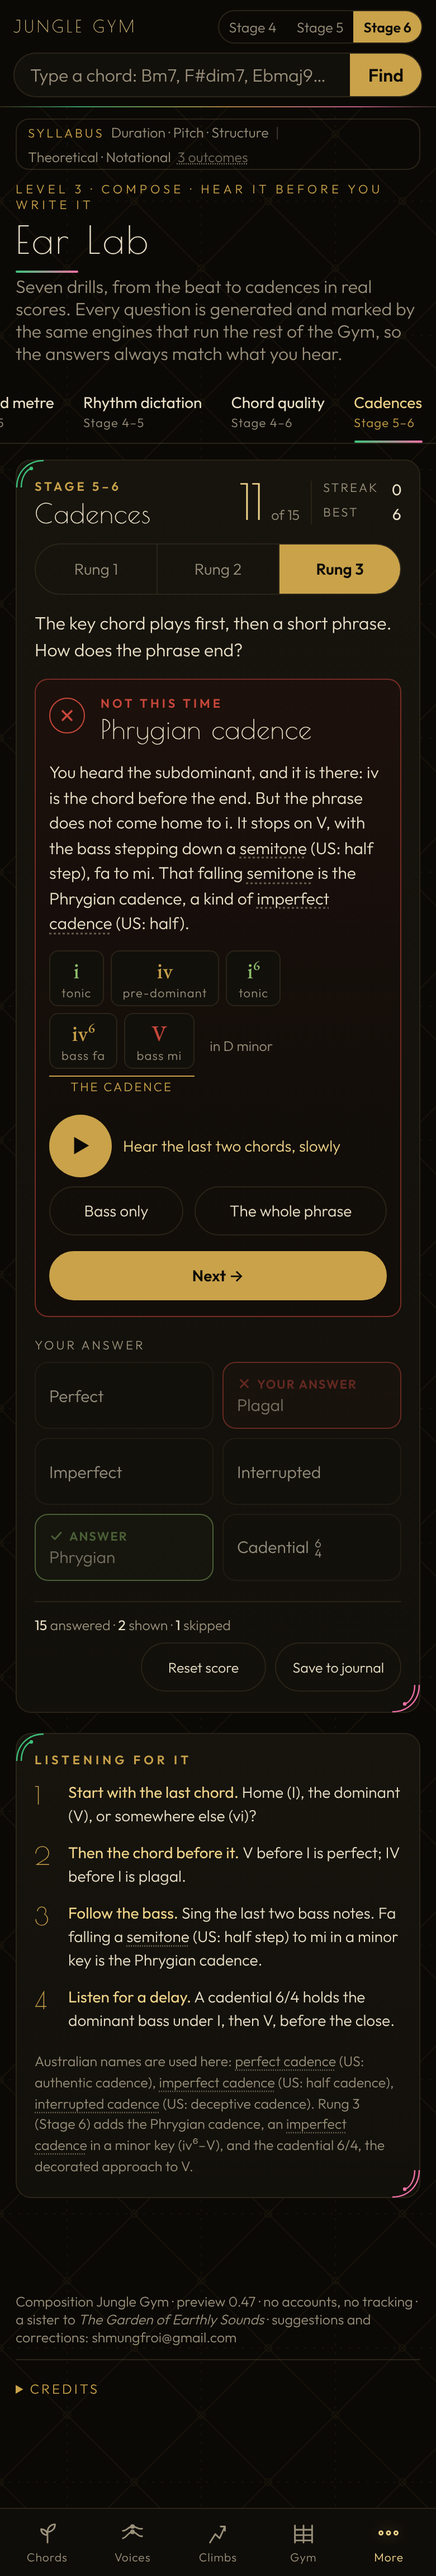
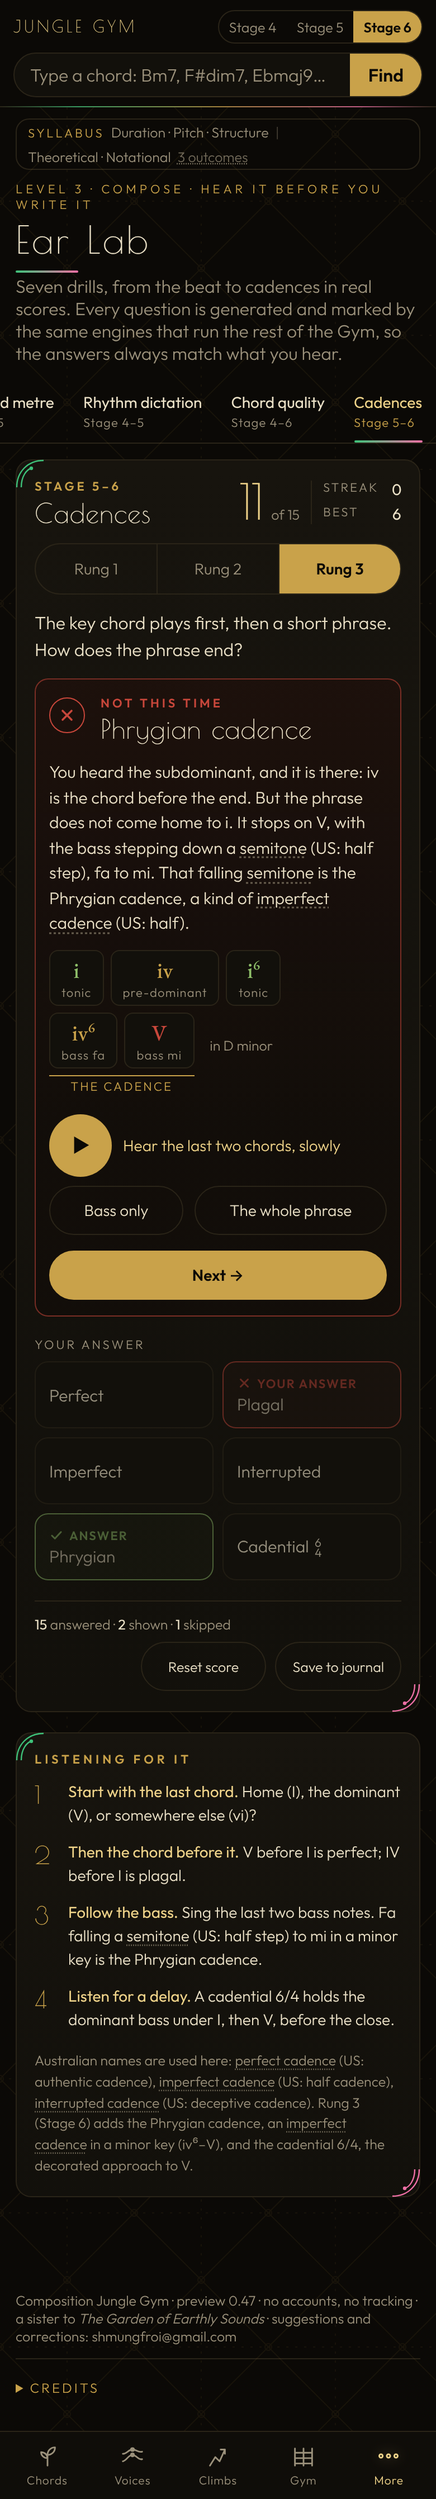
Ear Lab UI: dock only when the stage is above the view, 44px letter-names target, rhythm stave checks, screenshots, EL_ui_report
Claude-Session: https://claude.ai/code/session_014yUutbWzvEqdjPhWn8Tgwq

diff --git a/tests/layout_detect.js b/tests/layout_detect.js
@@ -3,7 +3,7 @@
  const vis=e=>{const s=getComputedStyle(e);return s.visibility!=='hidden'&&s.display!=='none'&&+s.opacity>0.05};
  const items=[];
  const walker=document.createTreeWalker(document.querySelector('main'),NodeFilter.SHOW_TEXT);
- let n;while(n=walker.nextNode()){const t=n.textContent.trim();if(!t)continue;const el=n.parentElement;if(!el||el.closest('script,style'))continue;
+ let n;while(n=walker.nextNode()){const t=n.textContent.trim();if(!t)continue;const el=n.parentElement;if(!el||el.closest('script,style,.el-sr,.sr-only'))continue;
   if(el.closest('svg')&&!['text','tspan'].includes(el.tagName.toLowerCase()))continue;
   if(!el.getClientRects().length||!vis(el))continue;
   {const d=el.closest('details:not([open])');if(d&&!el.closest('summary'))continue}
@@ -21,7 +21,7 @@
   const k=a.t+'|'+b.t;if(seen.has(k))continue;seen.add(k);
   out.overlap.push({a:a.t,b:b.t,x:Math.round(Math.min(a.x1,b.x1)),y:Math.round(Math.min(a.y1,b.y1)+scrollY),w:Math.round(Math.max(a.x2,b.x2)-Math.min(a.x1,b.x1)),h:Math.round(Math.max(a.y2,b.y2)-Math.min(a.y1,b.y1)),svg:a.svg||b.svg,frac:+(ar/mn).toFixed(2)})}}
  // clipped text: overflow hidden/clip boxes whose text content is cut off
- document.querySelectorAll('main *').forEach(e=>{if(e.closest('svg')||!e.getClientRects().length)return;const s=getComputedStyle(e);
+ document.querySelectorAll('main *').forEach(e=>{if(e.closest('svg,.el-sr,.sr-only')||!e.getClientRects().length)return;const s=getComputedStyle(e);
   const hid=/(hidden|clip)/.test(s.overflowX+s.overflowY);if(!hid)return;if(!e.textContent.trim())return;
   const cx=e.scrollWidth>e.clientWidth+2&&/(hidden|clip)/.test(s.overflowX)&&s.textOverflow!=='ellipsis',cy=e.scrollHeight>e.clientHeight+3&&/(hidden|clip)/.test(s.overflowY);
   if(cx||cy){const r=e.getBoundingClientRect();out.clipped.push({el:e.tagName+'.'+String(e.className).split(' ')[0],t:e.textContent.trim().slice(0,40),dir:(cx?'x':'')+(cy?'y':''),by:cx?e.scrollWidth-e.clientWidth:e.scrollHeight-e.clientHeight,x:Math.round(r.left),y:Math.round(r.top+scrollY),w:Math.round(r.width),h:Math.round(r.height)})}});

diff --git a/index.html b/index.html
@@ -880,6 +880,7 @@ button.fch{cursor:pointer}.fch b{font-size:15px;font-weight:600}.fch span{font-s
 .el-seg button{min-width:44px}
 .el-gold{color:var(--goldhi)}
 .el-note{font-size:12.5px;color:var(--muted);margin:10px 0 0}
+.melacts label.note{display:inline-flex;align-items:center;gap:10px;min-height:44px;cursor:pointer}.melacts label.note input{width:20px;height:20px;margin:0;accent-color:var(--gold)}
 .el-rhy .tag{font-size:11px;letter-spacing:2px;text-transform:uppercase;color:var(--muted)}
 .el-count{font-variant-numeric:tabular-nums}
 .el-bf{display:grid;grid-template-columns:repeat(4,minmax(0,max-content))}
@@ -7361,7 +7362,7 @@ function earRhyCaret(u){document.querySelectorAll('#earMain .el-cmp:not([style*=
 function earDockShow(on){const dk=$('earDock');if(!dk)return;dk.classList.toggle('show',!!on&&ROOM==='ear'&&!!EAR.q);document.body.classList.toggle('ear-docked',dk.classList.contains('show'))}
 function earObserve(){if(EAR.io){EAR.io.disconnect();EAR.io=null}earDockShow(false);const dk=$('earDock');if(!dk||!window.IntersectionObserver||ROOM!=='ear')return;
  const t=$('earStage')||document.querySelector('#earResult .el-replay')||$('earResult');if(!t)return;const top=parseFloat(getComputedStyle(document.documentElement).getPropertyValue('--top'))||58;
- EAR.io=new IntersectionObserver(es=>{earDockShow(!es[es.length-1].isIntersecting)},{rootMargin:`-${top}px 0px -61px 0px`});EAR.io.observe(t)}
+ EAR.io=new IntersectionObserver(es=>{const e=es[es.length-1];earDockShow(!e.isIntersecting&&e.boundingClientRect.bottom<=(e.rootBounds?e.rootBounds.top+2:top+2))},{rootMargin:`-${top}px 0px -61px 0px`});EAR.io.observe(t)}
 function earTeardown(){if(EAR.io){EAR.io.disconnect();EAR.io=null}document.body.classList.remove('ear-docked','ear-sounding');if(EAR.tick){clearInterval(EAR.tick);EAR.tick=null}}
 elOn(ev=>{if(ev.type==='beat'){earLane(ev);return}if(ev.type!=='state')return;const q=EAR.q;
  if(ev.state==='playing'&&q&&ELT.item===q&&ELT.variant!=='tap'&&EAR.lastPid!==ev.id){EAR.lastPid=ev.id;q.plays=(q.plays||0)+1}

diff --git a/tests/score_measure_test.py b/tests/score_measure_test.py
@@ -58,7 +58,11 @@ RHY = r"""()=>{const out=[];document.querySelectorAll('#earMain .el-rhy').forEac
  const sr=svg.getBoundingClientRect(),br=box.getBoundingClientRect();if(sr.right>br.right+1||sr.left<br.left-1)f.push(`W svg ${Math.round(sr.width)} px wider than frame ${Math.round(br.width)}`);
  if(box.scrollWidth>box.clientWidth+1)f.push('O scrolls sideways');
  const ys=new Set([...svg.querySelectorAll('line,path')].filter(e=>{const b=e.getBoundingClientRect();return b.height<1.5&&b.width>60}).map(e=>Math.round(e.getBoundingClientRect().top)));
- if(ys.size<1)f.push('S no stave line');
+ const stick=+(document.querySelector('#earMain [data-earlv].on')?.dataset.earlv||0)===1;
+ const bars=[...svg.querySelectorAll('line')].filter(e=>{const b=e.getBoundingClientRect();return b.height>20&&b.width<1.5});
+ // rung 1 is stick notation (no stave line, by spec); every other rung needs the one-line stave. Both end in a barline pair.
+ if(ys.size<1&&!stick)f.push('S no stave line');
+ if(bars.length<2)f.push('F no final barline');
  const T=[...svg.querySelectorAll('text')].filter(t=>t.textContent.trim()).map(t=>({t:t.textContent.slice(0,8),r:t.getBoundingClientRect()}));
  for(let i=0;i<T.length;i++)for(let j=i+1;j<T.length;j++){const a=T[i].r,b=T[j].r,ix=Math.min(a.right,b.right)-Math.max(a.left,b.left),iy=Math.min(a.bottom,b.bottom)-Math.max(a.top,b.top);if(ix>1&&iy>1&&ix*iy>0.2*Math.min(a.width*a.height,b.width*b.height))f.push(`X "${T[i].t}" over "${T[j].t}"`)}
  out.push({id:'el-rhy '+(box.className||''),task:'rhy',n:1,f:[...new Set(f)].slice(0,6),resp:''})});return out}"""

diff --git a/tests/layout_test.py b/tests/layout_test.py
@@ -30,7 +30,7 @@ EARQ="""(()=>{const out=[];const W=innerWidth;const tb=document.querySelector('.
 const dk=document.querySelector('.el-dock');const dkr=dk&&dk.offsetParent!==null?dk.getBoundingClientRect():null;
 const m=document.getElementById('earMain');if(!m)return{small:['no earMain'],covered:[]};
 const small=[],covered=[];
-for(const e of m.querySelectorAll('button,[role=button],[role=radio],[data-earopt],input,select')){const r=e.getBoundingClientRect();if(!r.width||!r.height||e.offsetParent===null)continue;
+for(const e of m.querySelectorAll('button,[role=button],[role=radio],[data-earopt],input,select')){const r=(e.tagName==='INPUT'&&e.closest('label')?e.closest('label'):e).getBoundingClientRect();if(!r.width||!r.height||e.offsetParent===null)continue;
  if(W<=500&&(r.height<43.5||r.width<43.5)&&!e.closest('.earladder'))small.push((e.className||e.tagName)+' '+(e.textContent||'').trim().slice(0,18)+' '+Math.round(r.width)+'x'+Math.round(r.height));
  if(W<=500&&e.closest('.earladder')&&r.height<43.5&&r.width<43.5)small.push('ladder '+(e.textContent||'').trim().slice(0,10)+' '+Math.round(r.width)+'x'+Math.round(r.height));}
 return{small,covered}})()"""

diff --git a/tests/transport_test.py b/tests/transport_test.py
@@ -135,7 +135,7 @@ async def ear_transport(p,fails):
                 if abs(t['dur']-t['idur'])>.05: F(tag,'ring duration differs from elInfo().dur',t['dur'],t['idur'])
                 if not (t['txt'].startswith('StopPlaying')or t['txt'].startswith('StopCount-in')): F(tag,'toggle text while playing',t['txt'])
             else:
-                if t['pl'] or t['ap']!='false' or t['lab']!='Play again' or 'Ready' not in t['txt']: F(tag,'toggle did not return to Ready by itself',t)
+                if t['pl'] or t['ap']!='false' or t['lab']!='Play' or 'Play again' not in t['txt'] or 'Ready' not in t['txt']: F(tag,'toggle did not return to Ready by itself',t)
         for d in ['metre','rhy','qual','cad','bass','mel','blind']:
             for l in (1,2,3):
                 tag=f'{w}px {d} rung {l}'

diff --git a/tests/reports/EL_ui_report.md b/tests/reports/EL_ui_report.md
@@ -1,0 +1,51 @@
+# EL UI report (branch 048-elui, from v0.48 7ffc692)
+
+Fable's Ear Lab card redesign built into `index.html` on top of the existing engine. No engine, item-generation or marking logic was changed.
+Spec: `design/earlab_048/SPEC.md`. Screenshots of the built card (same states and widths as Fable's png/): `design/earlab_048_built/png/` (39 images, script `design/earlab_048_built/shots.py`).
+
+## What was built
+- EL-1: one Play/Stop toggle with a progress ring (CSS `--dur` and a negative `--del` for elapsed time), driven by `elInfo()` and `elOn`. Variants are secondary pills. The Ear Lab's own Stop is gone. `earSync()` updates toggles and state text without re-rendering.
+- EL-2: 56px toggle; phone dock above the tab bar when the stage has scrolled up out of view (IntersectionObserver); global Stop hidden while the Ear Lab sounds; all Ear Lab targets at least 44px at 390px; hand-sign ladder keeps the stave pinned (rows 24px high with 48px steps).
+- EL-3: metre progress is time-only; simple/compound by duple/triple/quadruple grid; "Hear it again with the beats shown" uses variant `beats` with a beat lane.
+- EL-5: one-line rhythm stave (stick notation at rung 1, stave from rung 2) in inline SVG with Bravura outlines, final barline, visible count-in, tiles whose width equals duration, sound strip, "You wrote" above "It was", Pulse and Speed options. Time names appear at rung 1 only (one constant).
+- EL-8: per-drill teaching feedback from Fable's templates, Nearly styled but still off (`EAR_NEARLY=false`).
+- EL-9: persistent polite live region (`#earLive`), focus management (`EAR.focus`), aria-pressed on toggles, rung and option groups, visible focus.
+- EL-10/11: stats line, inline Reset with Undo (Esc cancels), Stage tags, drill tabs scrolling in one row.
+- EL-13: function-coloured numerals, fixed option grids, short instruction plus "Listening for it" panel, one radius scale, desktop width cap.
+- R5: prominent tally (n, ok, streak, best) at the top of the card; the same tally in the Keys interval quiz and in Sing it back. Keys stats persist in `cjg_kgym`.
+- Terminology: Australian terms on buttons with US terms in `title`; US terms in brackets at first mention in feedback. No text under 11px.
+
+## Deviations from the spec, and why
+- The live region is persistent and the answer panel is `role=group` (a live region that is re-rendered is not reliably announced).
+- Ladder rows stay 24px with 48px steps: the earlier melody test requires steps of at least 47px and the step is the tap target.
+- Narrow layout swap at 800px (spec 760px) so tablets in portrait take the narrow stave.
+- The terms pass brackets some words automatically ("bar (US: measure)"); the rhythm teaching text wraps "bar x" in `data-notm` to avoid "Bar (US: measure) 1".
+- Cadence buttons use short names (Perfect, Plagal, ...) with the US name in `title`. The US names live in a `{us:'...'}` record so `content_lint` accepts them.
+- Dock appears only when the stage is fully scrolled out above the viewport, never when it is merely below the fold (it covered text at the top of the page otherwise).
+- Default tempo per rung (`earRhyBpm`) instead of a single default.
+- Keys: `KS.gym.st` stores streak and best per mode.
+- Letter-name checkbox in the melody desk is wrapped in a 44px label so the phone target passes.
+
+## Tests changed
+- earlab_test: blind tip read from `ELTIPS` / `ELTIPNOTE` (earTips is replaced by `earTipsHTML`).
+- earlab_r2_test: `.el-result` for the result strip; new feedback wording.
+- earlab_items_test: toggle starts questions; cadence button labels; family feedback; `.el-foot`; reset text; Stage tags.
+- transport_test: toggle replaces `[data-earstop]`; new `check_toggle` (class, aria-pressed, label, ring duration against `elInfo().dur`, checked at 100ms and at the natural end).
+- layout_test: also runs at 1366; new per-drill asked and answered Ear Lab states (overlap, sideways scroll, targets >=44px on phones, nothing under tab bar or dock). `layout_detect.js` ignores visually hidden `.el-sr` regions.
+- score_measure_test: rhythm stave checks (text >=11px, fits its frame, no text on text, stave line except in stick notation at rung 1, final barline).
+
+## Suite results (all pass)
+| Suite | Result |
+|---|---|
+| content_lint | passed |
+| unit_test | 637 checks, 0 failures |
+| earlab_test | 0 failures |
+| earlab_r2_test | 1666 checks, 0 failed |
+| earlab_items_test | 0 failures |
+| terms_test | 153 views, 2328 clicks scanned, 0 failures |
+| transport_test | 0 failures; 199 trials, 42 items, 112 state checks, 63 toggle checks, 21 natural ends (end difference 0 ms) |
+| layout_test | 272 views (1440/1366/1024/390), 0 with findings, no page errors |
+| pageerrors_test | 153 views, 4192 clicks, 881 random clicks, 0 errors |
+| score_measure_test | 300 scores measured, 0 with findings, no page errors |
+
+Browser suites were run one at a time; other worktrees were running suites on the same machine, which caused one earlab_r2 click timeout that passed on re-run.
